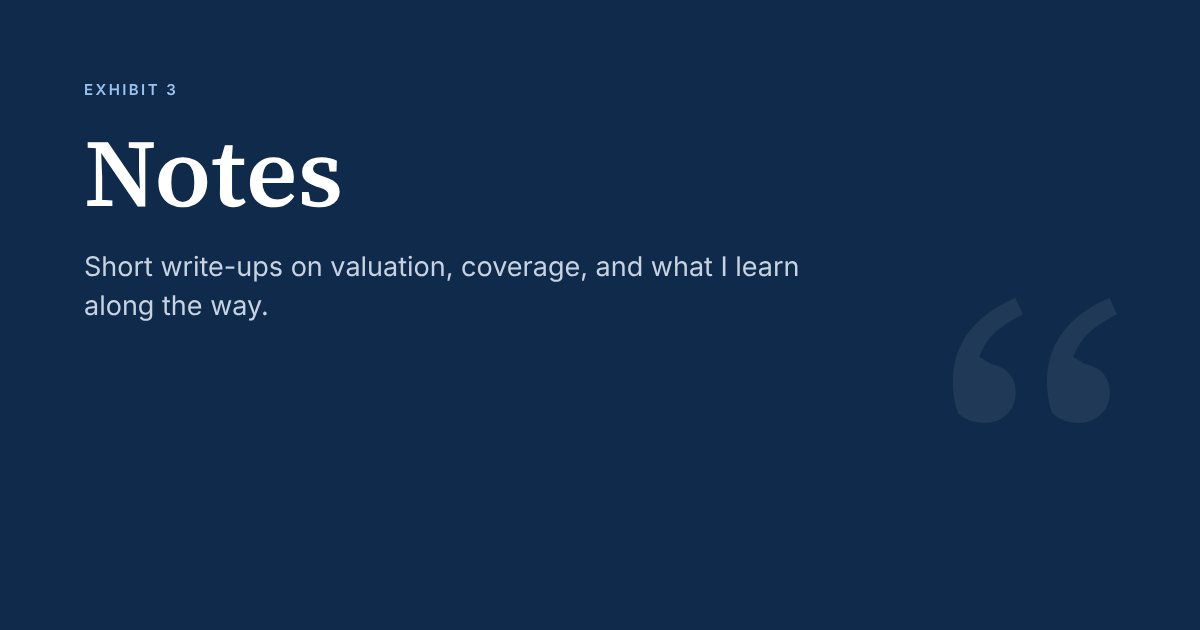
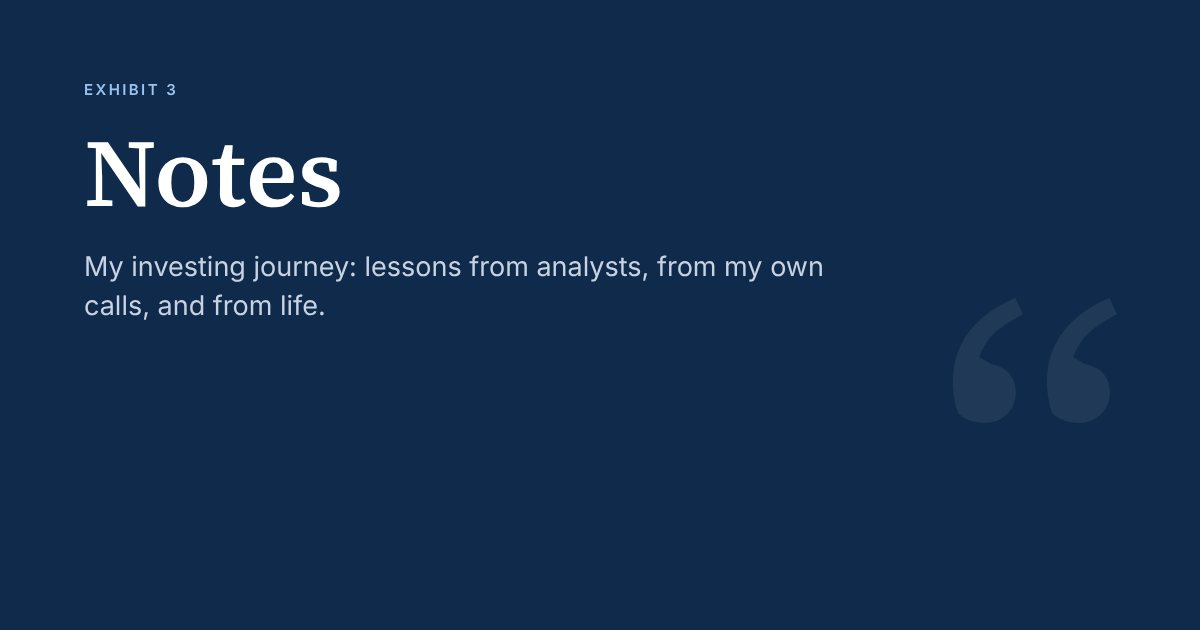
Notes becomes the blog; Studio gets Finished work and Process sections
Claude-Session: https://claude.ai/code/session_011Msi9krDZZ2SDSq7zgpDGf

Changed region(s): [[0.0617, 0.3921, 0.6783, 0.5127]]

diff --git a/studio/index.html b/studio/index.html
@@ -4,9 +4,9 @@
 <meta charset="utf-8">
 <meta name="viewport" content="width=device-width, initial-scale=1, viewport-fit=cover">
 <title>Studio · Gideon Anthony</title>
-<meta name="description" content="Concept art, paintings and clothing designed and made by Gideon Anthony.">
+<meta name="description" content="Concept art, paintings and clothing designed and made by Gideon Anthony, and the process behind them.">
 <meta property="og:title" content="Studio · Gideon Anthony">
-<meta property="og:description" content="Concept art, paintings and clothing designed and made by Gideon Anthony.">
+<meta property="og:description" content="Concept art, paintings and clothing designed and made by Gideon Anthony, and the process behind them.">
 <meta property="og:type" content="website">
 <meta property="og:url" content="https://gidant12-svg.github.io/studio/">
 <meta property="og:image" content="https://gidant12-svg.github.io/images/cards/studio.jpg">
@@ -30,10 +30,17 @@
   <div class="wrap hero"><div class="hero-main">
     <p class="eyebrow">Outside finance</p>
     <h1>Studio</h1>
-    <p class="lede">Concept art, paintings and clothing I've designed and made, with notes on how each piece came together. Tap any piece to see it full size.</p>
+    <p class="lede">Concept art, paintings and clothing I've designed and made: the finished pieces, and the process behind them. Tap any image to see it full size.</p>
   </div></div>
-  <section class="wrap block" aria-label="Pieces">
+  <section class="wrap block" aria-labelledby="h-fin">
+    <div class="sec-head"><h2 id="h-fin">Finished work</h2></div>
+    <p class="sub">Completed pieces.</p>
     <div class="gallery" id="gallery"><p class="empty">Loading…</p></div>
+  </section>
+  <section class="wrap block" aria-labelledby="h-pro">
+    <div class="sec-head"><h2 id="h-pro">Process</h2></div>
+    <p class="sub">How the pieces come together: sketches, iterations and the steps in between.</p>
+    <div id="process"><p class="empty">Loading…</p></div>
   </section>
 </main>
 <footer class="site">
@@ -48,8 +55,16 @@ const {get, esc, url, byDate, footer} = Site;
 Promise.all(['site.json','studio.json'].map(get)).then(([site, pieces]) => {
   footer(site);
   pieces = (pieces||[]).sort(byDate);
-  document.getElementById('gallery').innerHTML = pieces.length
-    ? pieces.map(p => `<figure class="piece">
+  const fin = pieces.filter(p => p.type !== 'process'), pro = pieces.filter(p => p.type === 'process');
+  // A process entry: a title, a short intro, and a row of step images, each with an optional caption.
+  document.getElementById('process').innerHTML = pro.length
+    ? pro.map(p => `<article class="proc-entry">
+        <span class="pk">${esc(p.kind)}${p.when ? ' · ' + esc(p.when) : ''}</span><h3>${esc(p.title)}</h3>${p.about ? `<p>${esc(p.about)}</p>` : ''}
+        <div class="steps">${(p.steps||[]).map((s,i) => `<figure><a href="${esc(url(s.image))}" target="_blank" rel="noopener"><img src="${esc(url(s.image))}" alt="${esc(s.alt||s.caption||('Step '+(i+1)))}" loading="lazy"></a><figcaption><b>${i+1}</b> ${esc(s.caption||'')}</figcaption></figure>`).join('')}</div>
+      </article>`).join('')
+    : '<div class="coming"><b>Process write-ups are on their way.</b><br>Sketches, iterations and the steps between first idea and finished piece.</div>';
+  document.getElementById('gallery').innerHTML = fin.length
+    ? fin.map(p => `<figure class="piece">
         <a href="${esc(url(p.image))}" target="_blank" rel="noopener"><img src="${esc(url(p.image))}" alt="${esc(p.alt||p.title)}" loading="lazy"></a>
         <figcaption><span class="pk">${esc(p.kind)}${p.when ? ' · ' + esc(p.when) : ''}</span><h3>${esc(p.title)}</h3>${p.about ? `<p>${esc(p.about)}</p>` : ''}</figcaption>
       </figure>`).join('')

diff --git a/index.html b/index.html
@@ -68,8 +68,8 @@
       <a class="card" href="notes/">
         <div class="pic"><img src="images/cards/notes.jpg" alt="Notes" width="1200" height="630" loading="lazy"></div>
         <div class="txt"><span class="ex">Exhibit 3</span><h3>Notes</h3>
-          <p>Short write-ups on valuation, coverage, and what I learn from conversations with analysts along the way.</p>
-          <span class="live" data-live="notes">Writing</span></div>
+          <p>My investing journey in writing: what I've learned from analysts, from my own calls, and from life.</p>
+          <span class="live" data-live="notes">Blog</span></div>
       </a>
     </div>
   </section>
@@ -79,7 +79,7 @@
     <a class="card wide" href="studio/">
       <div class="pic"><img src="images/cards/studio.jpg" alt="A black-and-white composite with the LA monogram, beside an astronaut charm on black knit" width="1200" height="630" loading="lazy"></div>
       <div class="txt"><span class="ex">Studio</span><h3>Concept art, paintings and clothing</h3>
-        <p>Pieces I've designed and made away from the spreadsheet, with notes on how each one came together.</p>
+        <p>Finished pieces I've designed and made, and the process behind them, from first sketch to final piece.</p>
         <span class="live" data-live="studio">Creative work</span></div>
     </a>
   </section>
@@ -134,7 +134,7 @@ Promise.all(['site.json','reports.json','timeline.json','desk.json','notes.json'
     calls: r ? `<span><b>${reports.length} call${reports.length===1?'':'s'}</b> · latest ${esc(r.ticker)}, ${esc(r.rating.split(' ')[0])}, ${esc(r.upside)}</span>` : '<span>First call coming soon</span>',
     desk: (() => { const ready = desk.filter(d => !d.soon); return ready.length ? `<span><b>${ready.length} tool${ready.length===1?'':'s'}</b> · ${esc(ready[0].title)}</span>` : '<span>First tool coming soon</span>'; })(),
     notes: notes.length ? `<span><b>${notes.length} post${notes.length===1?'':'s'}</b> · latest ${esc(notes.sort(byDate)[0].when || notes[0].date)}</span>` : '<span>First post coming soon</span>',
-    studio: studio.length ? `<span><b>${studio.length} piece${studio.length===1?'':'s'}</b> · ${esc([...new Set(studio.map(s => s.kind))].join(', ').toLowerCase())}</span>` : '<span>Coming soon</span>'
+    studio: (() => { const fin = studio.filter(s => s.type !== 'process'), pro = studio.filter(s => s.type === 'process'); return studio.length ? `<span><b>${fin.length} finished piece${fin.length===1?'':'s'}</b>${pro.length ? ` · ${pro.length} process${pro.length===1?'':'es'}` : ` · ${esc([...new Set(fin.map(s => s.kind))].join(', ').toLowerCase())}`}</span>` : '<span>Coming soon</span>'; })()
   };
   document.querySelectorAll('[data-live]').forEach(el => el.innerHTML = live[el.dataset.live]);
 });

diff --git a/notes/index.html b/notes/index.html
@@ -4,9 +4,9 @@
 <meta charset="utf-8">
 <meta name="viewport" content="width=device-width, initial-scale=1, viewport-fit=cover">
 <title>Notes · Gideon Anthony</title>
-<meta name="description" content="Short write-ups on valuation, coverage and the analyst path by Gideon Anthony.">
+<meta name="description" content="Blog posts by Gideon Anthony on his investing journey and what he has learned from analysts and from life.">
 <meta property="og:title" content="Notes · Gideon Anthony">
-<meta property="og:description" content="Short write-ups on valuation, coverage and the analyst path by Gideon Anthony.">
+<meta property="og:description" content="Blog posts by Gideon Anthony on his investing journey and what he has learned from analysts and from life.">
 <meta property="og:type" content="website">
 <meta property="og:url" content="https://gidant12-svg.github.io/notes/">
 <meta property="og:image" content="https://gidant12-svg.github.io/images/cards/notes.jpg">
@@ -30,7 +30,7 @@
   <div class="wrap hero"><div class="hero-main">
     <p class="eyebrow">Exhibit 3 · Notes</p>
     <h1>Notes</h1>
-    <p class="lede">Short write-ups on valuation, coverage, and what I learn from conversations with analysts along the way.</p>
+    <p class="lede">Blog posts on my personal investing journey: what I've learned from analysts, from writing my own calls, and from life.</p>
   </div></div>
   <section class="wrap block" aria-label="Posts">
     <div class="entries" id="entries"><p class="empty">Loading…</p></div>
@@ -53,7 +53,7 @@ Promise.all(['site.json','notes.json'].map(get)).then(([site, notes]) => {
         ${n.image ? `<div class="pic"><img src="${esc(url(n.image))}" alt="${esc(n.alt||'')}" width="1200" height="630" loading="lazy"></div>` : ''}
         <div class="txt"><span class="ex">${esc(n.when||n.date)}</span><h3>${esc(n.title)}</h3><p>${esc(n.summary)}</p>
         <span class="live"><span>${esc(n.read ? n.read + ' read' : 'Read')}</span></span></div></a>`).join('')
-    : '<div class="coming" style="grid-column:1/-1"><b>The first post is on its way.</b><br>Notes will cover valuation, coverage, and what I learn along the way.</div>';
+    : '<div class="coming" style="grid-column:1/-1"><b>The first post is on its way.</b><br>Posts will follow my investing journey: lessons from analysts, from my own calls, and from life.</div>';
 });
 </script>
 </body>

diff --git a/assets/site.css b/assets/site.css
@@ -233,3 +233,14 @@ footer.site .fl a:hover{color:var(--accent)}
 .post .body h2{font-size:22px;margin:32px 0 8px}
 .post .body img{border-radius:8px;border:1px solid var(--line);margin:18px 0}
 .post .body blockquote{margin:18px 0;padding-left:16px;border-left:3px solid var(--accent);color:var(--muted)}
+
+/* studio process entries */
+.proc-entry{background:var(--surface);border:1px solid var(--line);border-radius:10px;padding:16px 18px 18px;margin-bottom:18px}
+.proc-entry .pk{font-size:11px;font-weight:600;letter-spacing:.12em;text-transform:uppercase;color:var(--accent)}
+.proc-entry h3{font-family:var(--serif);font-size:20px;font-weight:600;margin:3px 0 4px;color:var(--navy)}
+.proc-entry>p{margin:0 0 14px;font-size:14px;color:var(--muted);max-width:680px}
+.steps{display:grid;grid-auto-flow:column;grid-auto-columns:minmax(200px,1fr);gap:12px;overflow-x:auto;padding-bottom:4px}
+.steps figure{margin:0;min-width:0}
+.steps img{width:100%;aspect-ratio:1;object-fit:cover;border-radius:6px;background:#000}
+.steps figcaption{font-size:12.5px;color:var(--muted);margin-top:6px}
+.steps figcaption b{color:var(--accent);margin-right:4px}

diff --git a/notes/_post-template.html b/notes/_post-template.html
@@ -28,7 +28,7 @@
 <main id="main" class="wrap">
   <a class="back" href="../">← Notes</a>
   <article class="post">
-    <p class="eyebrow" style="margin-top:18px">Notes</p>
+    <p class="eyebrow" style="margin-top:18px">Notes · Blog</p>
     <h1>TITLE</h1>
     <p class="meta">DATE · X min read</p>
     <div class="body">

diff --git a/README.md b/README.md
@@ -50,7 +50,8 @@ Set `"current": true` on a call you are writing now: it shows at the top of Call
 Add an entry to `desk.json`. `url` is the tool's address on the site; `image` is 1200 × 630.
 Set `"soon": true` to show it as "coming soon" without a link.
 
-## Write a Note
+## Write a blog post (Notes)
+Notes is the blog: your investing journey, lessons from analysts, and things learned through life.
 1. Copy `notes/_post-template.html` to `notes/your-post-name/index.html` and replace the placeholder text.
    (Files starting with `_` are never published.)
 2. Add an entry to `notes.json`:
@@ -60,10 +61,24 @@ Set `"soon": true` to show it as "coming soon" without a link.
 ```
 `image` is optional (1200 × 630).
 
-## Add a Studio piece
-Upload the image to `images/studio/` (around 1600 px on the long side keeps the page fast), then add to `studio.json`:
+## Add to Studio
+Studio has two sections: **Finished work** and **Process**. Upload images to `images/studio/`
+(around 1600 px on the long side keeps the page fast), then add an entry to `studio.json`.
+
+A finished piece:
 ```json
-{ "title": "Piece title", "kind": "Painting", "when": "2026", "date": "2026-08-01",
+{ "type": "finished", "title": "Piece title", "kind": "Painting", "when": "2026", "date": "2026-08-01",
   "image": "images/studio/piece-name.jpg", "alt": "What the image shows, for screen readers",
-  "about": "One or two lines on how it was made." },
+  "about": "One or two lines about the piece." },
+```
+
+A process (shown as numbered steps, left to right):
+```json
+{ "type": "process", "title": "How the astronaut charm piece was made", "kind": "Clothing", "when": "2026", "date": "2026-08-01",
+  "about": "A short intro to the process.",
+  "steps": [
+    { "image": "images/studio/charm-sketch.jpg", "caption": "First sketch" },
+    { "image": "images/studio/charm-test.jpg", "caption": "Test placement on the knit" },
+    { "image": "images/studio/astronaut-charm.jpg", "caption": "Finished" }
+  ] },
 ```
